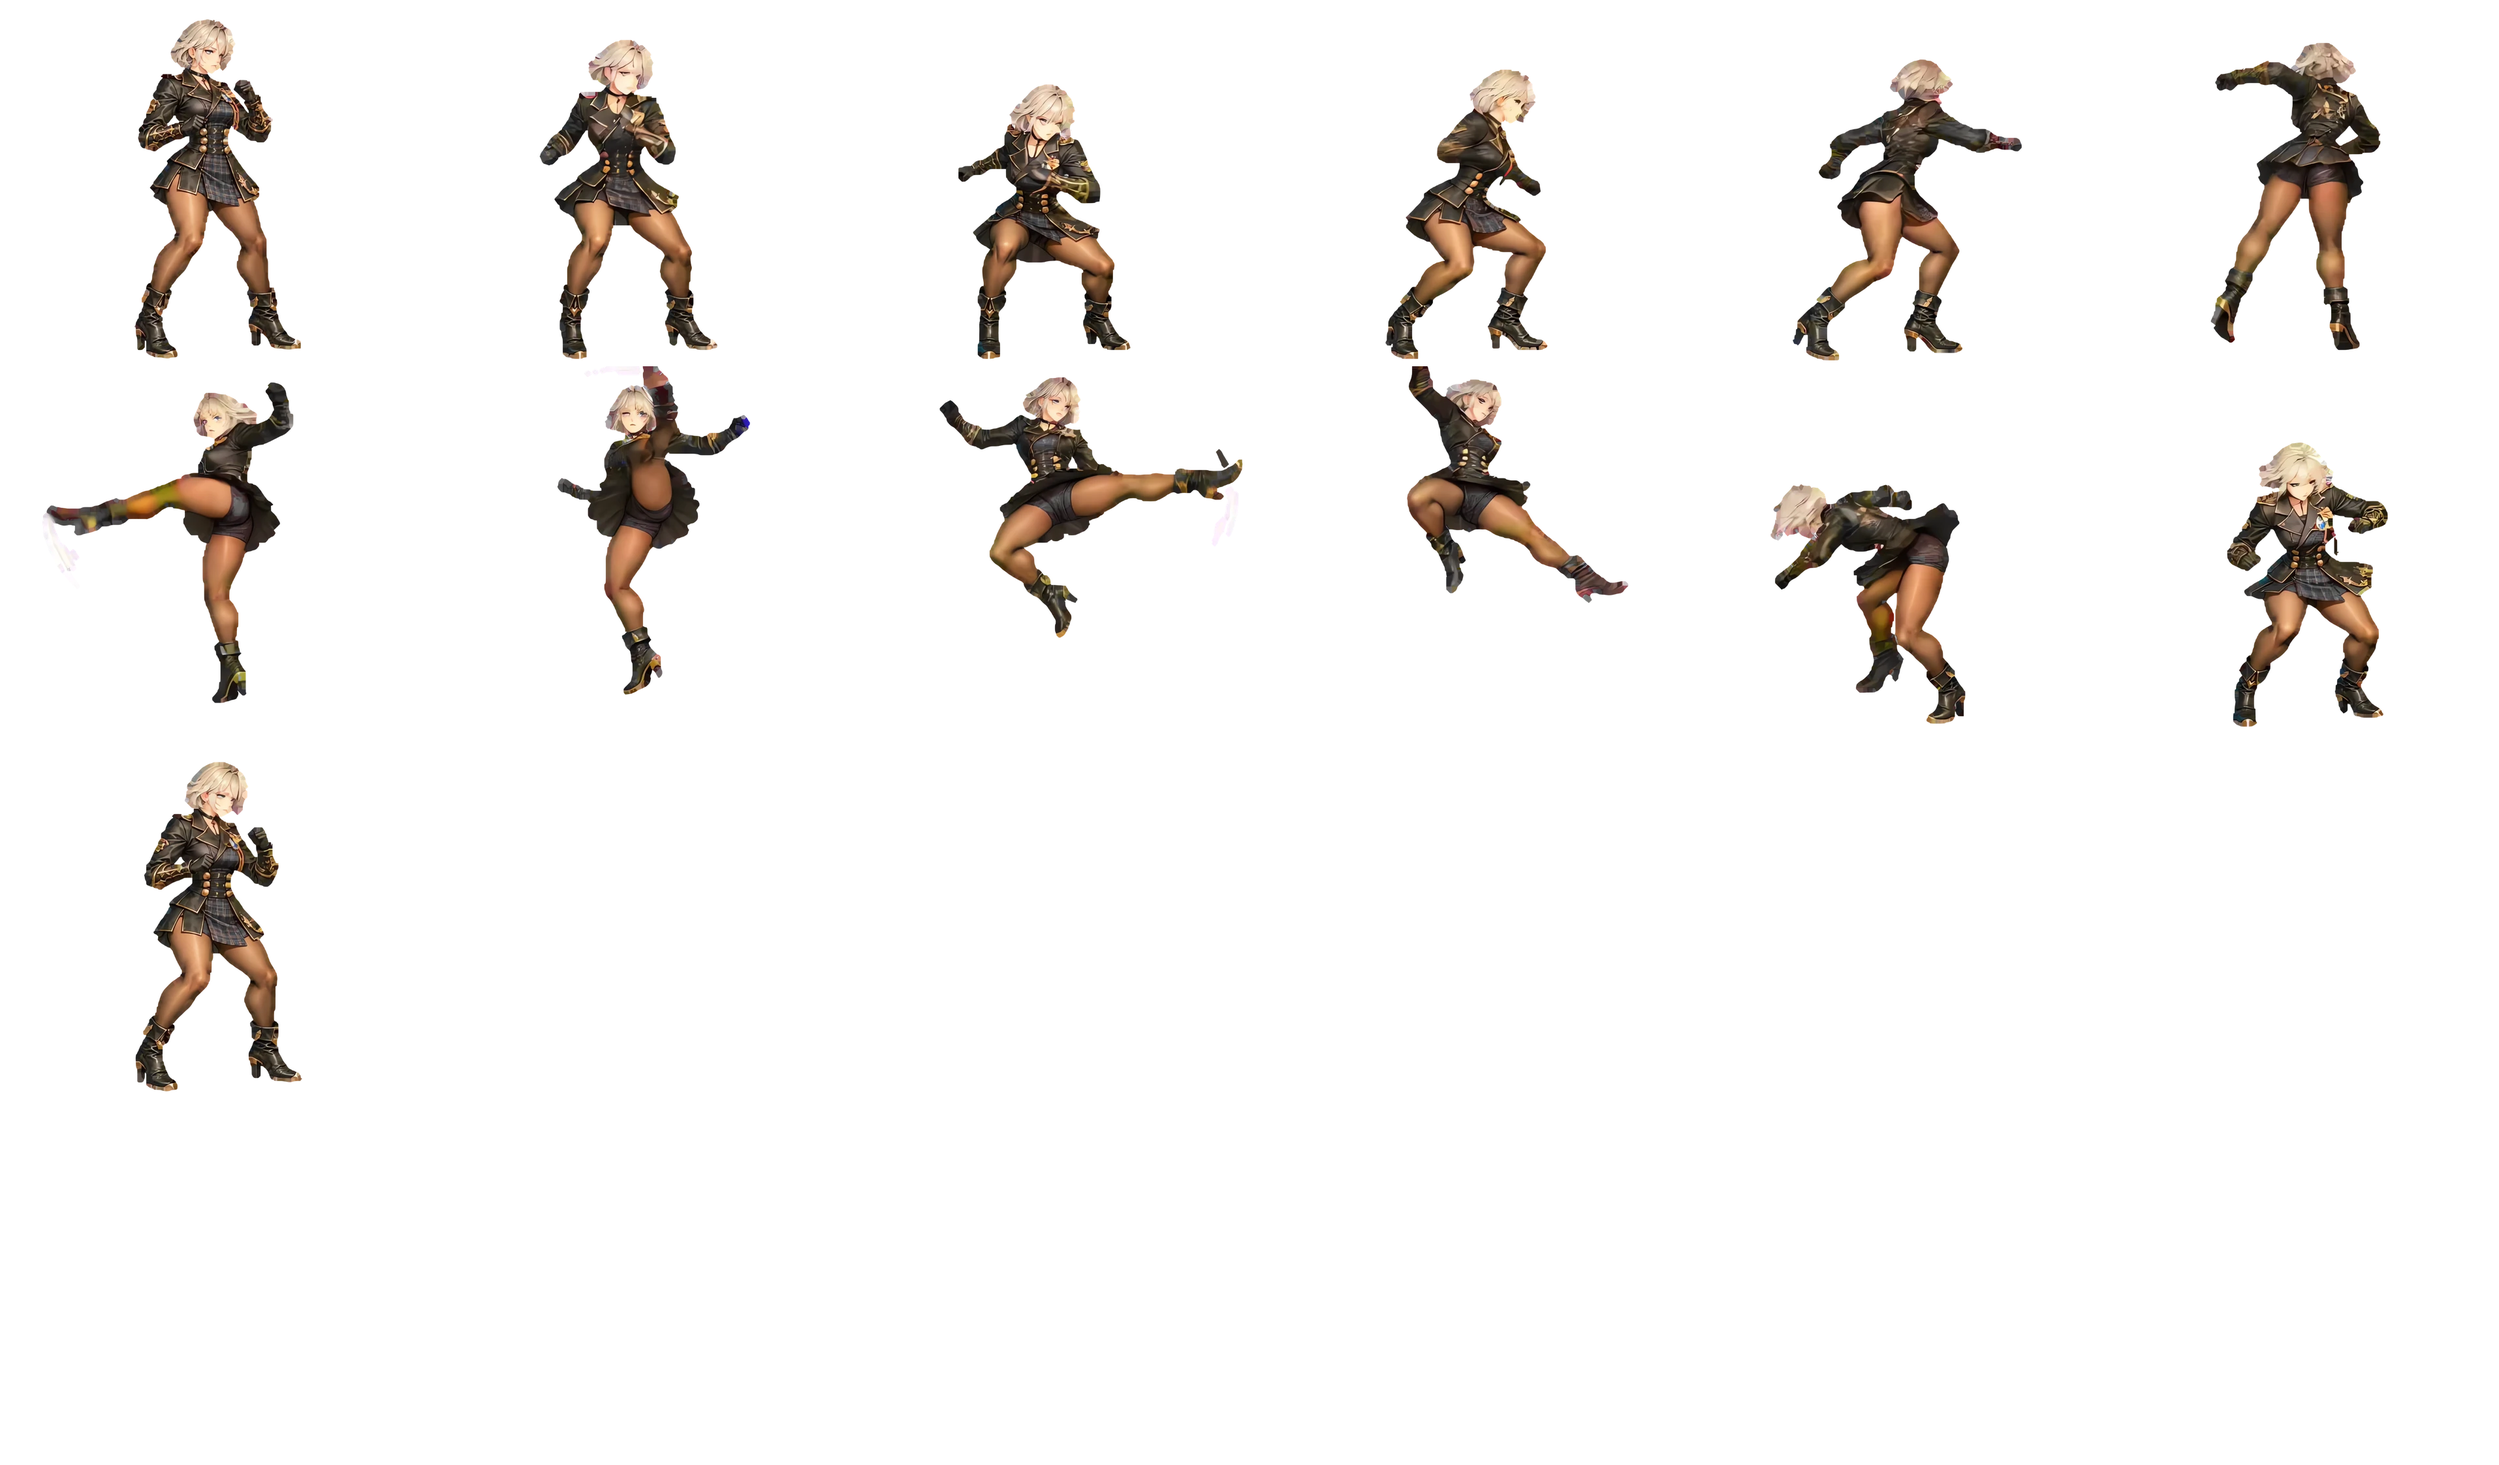
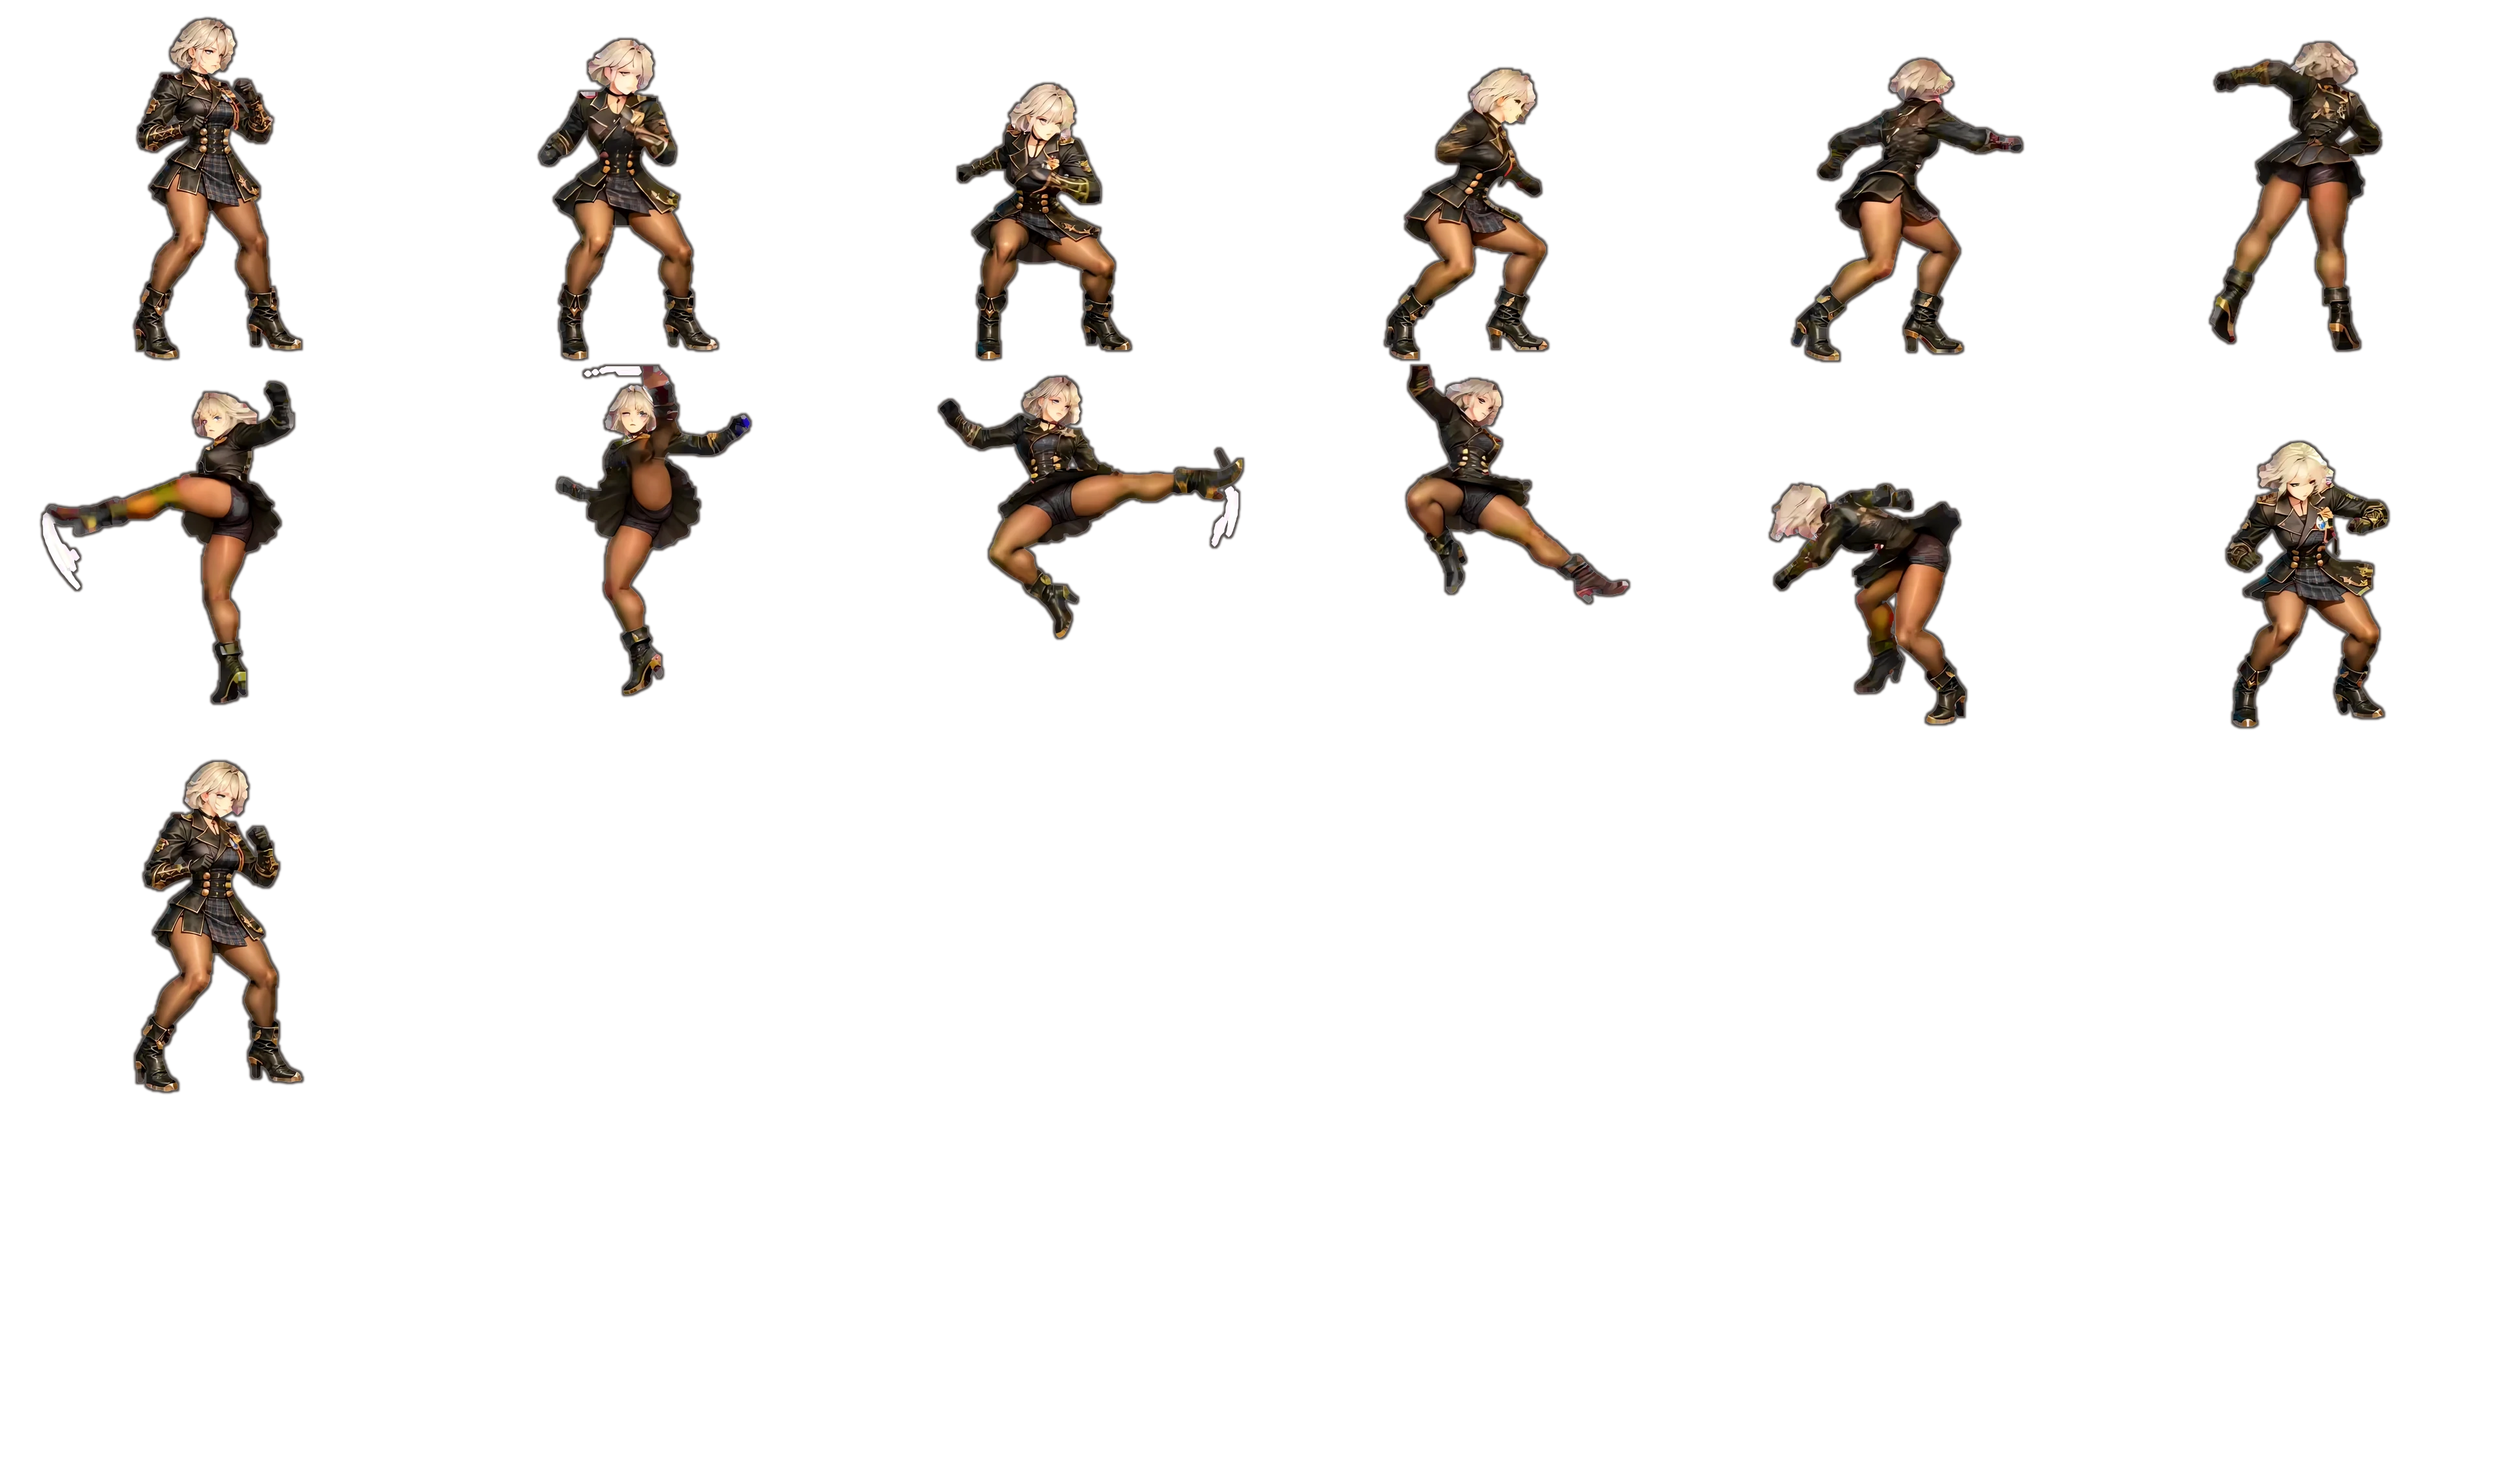
リリィの戦闘の絵に暗い縁と少しのコントラストを足す（肌色のタイツが明るい土の地面に溶けて、薄く小さく見えた）。道具 add_rim.py
Claude-Session: https://claude.ai/code/session_01U4ZkdJkaSDjs7qHX5pq169

diff --git a/index.html b/index.html
@@ -4,7 +4,7 @@
 <meta name="apple-mobile-web-app-capable" content="yes">
 <meta name="mobile-web-app-capable" content="yes">
 <meta name="apple-mobile-web-app-status-bar-style" content="black-translucent">
-<link rel="stylesheet" href="battle/battle.css?v=1793500000">
+<link rel="stylesheet" href="battle/battle.css?v=1793510000">
 </head><body>
 <!-- 横画面の旧版は index_land.html。戦闘の中身は battle/*.js（上から順に読み込む） -->
 <div class="wrap" id="wrap">
@@ -40,16 +40,16 @@
   <div class="keys" id="keys"></div>
 </div>
 
-<script src="battle/core.js?v=1793500000"></script>
-<script src="battle/input.js?v=1793500000"></script>
-<script src="battle/play.js?v=1793500000"></script>
-<script src="battle/update.js?v=1793500000"></script>
-<script src="battle/draw.js?v=1793500000"></script>
-<script src="battle/fx.js?v=1793500000"></script>
-<script src="battle/fx2.js?v=1793500000"></script>
-<script src="battle/ally.js?v=1793500000"></script>
-<script src="battle/ui.js?v=1793500000"></script>
-<script src="battle/loop.js?v=1793500000"></script>
+<script src="battle/core.js?v=1793510000"></script>
+<script src="battle/input.js?v=1793510000"></script>
+<script src="battle/play.js?v=1793510000"></script>
+<script src="battle/update.js?v=1793510000"></script>
+<script src="battle/draw.js?v=1793510000"></script>
+<script src="battle/fx.js?v=1793510000"></script>
+<script src="battle/fx2.js?v=1793510000"></script>
+<script src="battle/ally.js?v=1793510000"></script>
+<script src="battle/ui.js?v=1793510000"></script>
+<script src="battle/loop.js?v=1793510000"></script>
 
 
 </body></html>

diff --git a/terrain/index.html b/terrain/index.html
@@ -42,5 +42,5 @@ html,body{margin:0;height:100%;background:#0d1a10;overflow:hidden;touch-action:n
 </script>
 <canvas id="gl"></canvas>
 <div id="hud" style="display:none"></div><div id="st"></div>
-<script type="module" src="main.js?v=1793500000"></script>
+<script type="module" src="main.js?v=1793510000"></script>
 </body></html>

diff --git a/terrain/tools/add_rim.py b/terrain/tools/add_rim.py
@@ -1,0 +1,15 @@
+# 使い方: 元のシートを /home/claude/lk/bak/ に置いて python3 tools/add_rim.py <ファイル名>…（入出力のフォルダは中で固定。使うときに書き換える）
+# 明るい土の地面に溶けないよう、輪郭に暗い縁（約4px、柔らかく）を足し、少しだけコントラストを上げる
+import sys, numpy as np
+from PIL import Image, ImageFilter
+from scipy import ndimage as ndi
+for f in sys.argv[1:]:
+    im=Image.open(f'/home/claude/lk/bak/{f}').convert('RGBA'); a=np.array(im).astype(np.float32)
+    al=a[...,3]/255; rgb=a[...,:3]
+    rgb=np.clip((rgb-128)*1.08+128-4,0,255)  # コントラスト少し上げ、少し暗く
+    d=ndi.grey_dilation(al,size=(7,7)); d=ndi.gaussian_filter(d,1.2)
+    rim=np.clip(d-al,0,1)*0.75
+    outA=al+rim*(1-al)
+    col=(rgb*al[...,None]+np.array([28,20,16])*rim[...,None]*(1-al[...,None]))/np.maximum(outA[...,None],1e-6)
+    o=np.dstack([np.clip(col,0,255),outA*255]).astype(np.uint8)
+    Image.fromarray(o).save(f'/home/claude/sa/ally/{f}','WEBP',quality=90,method=6); print(f)
